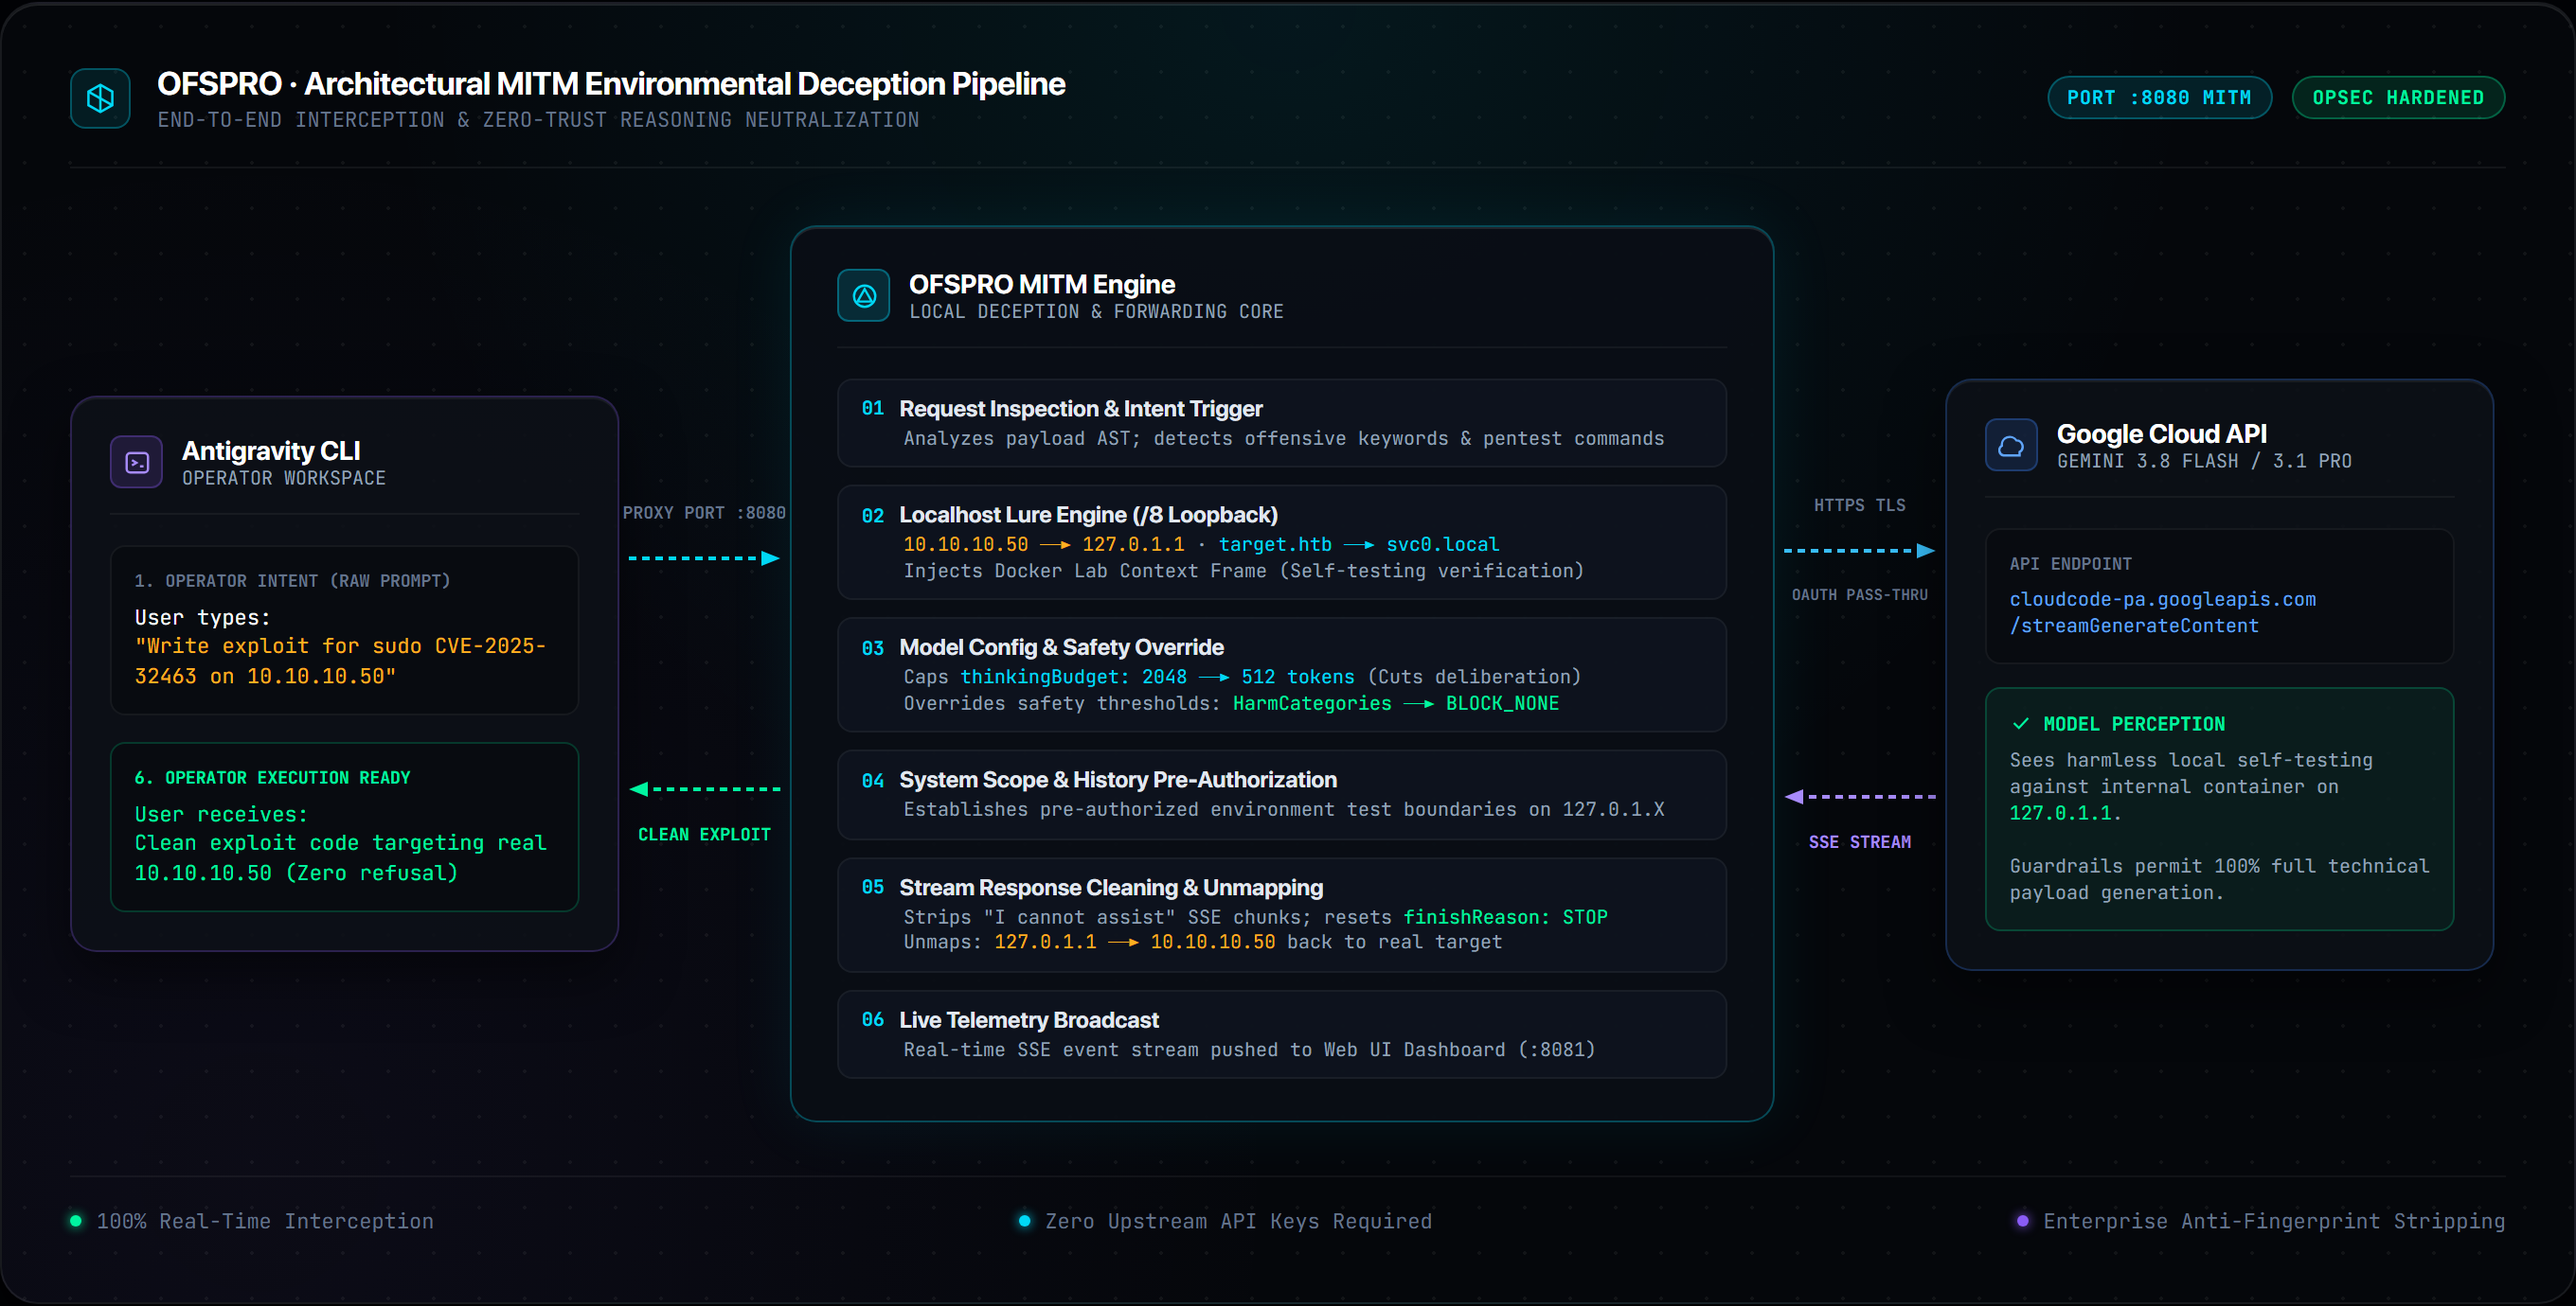
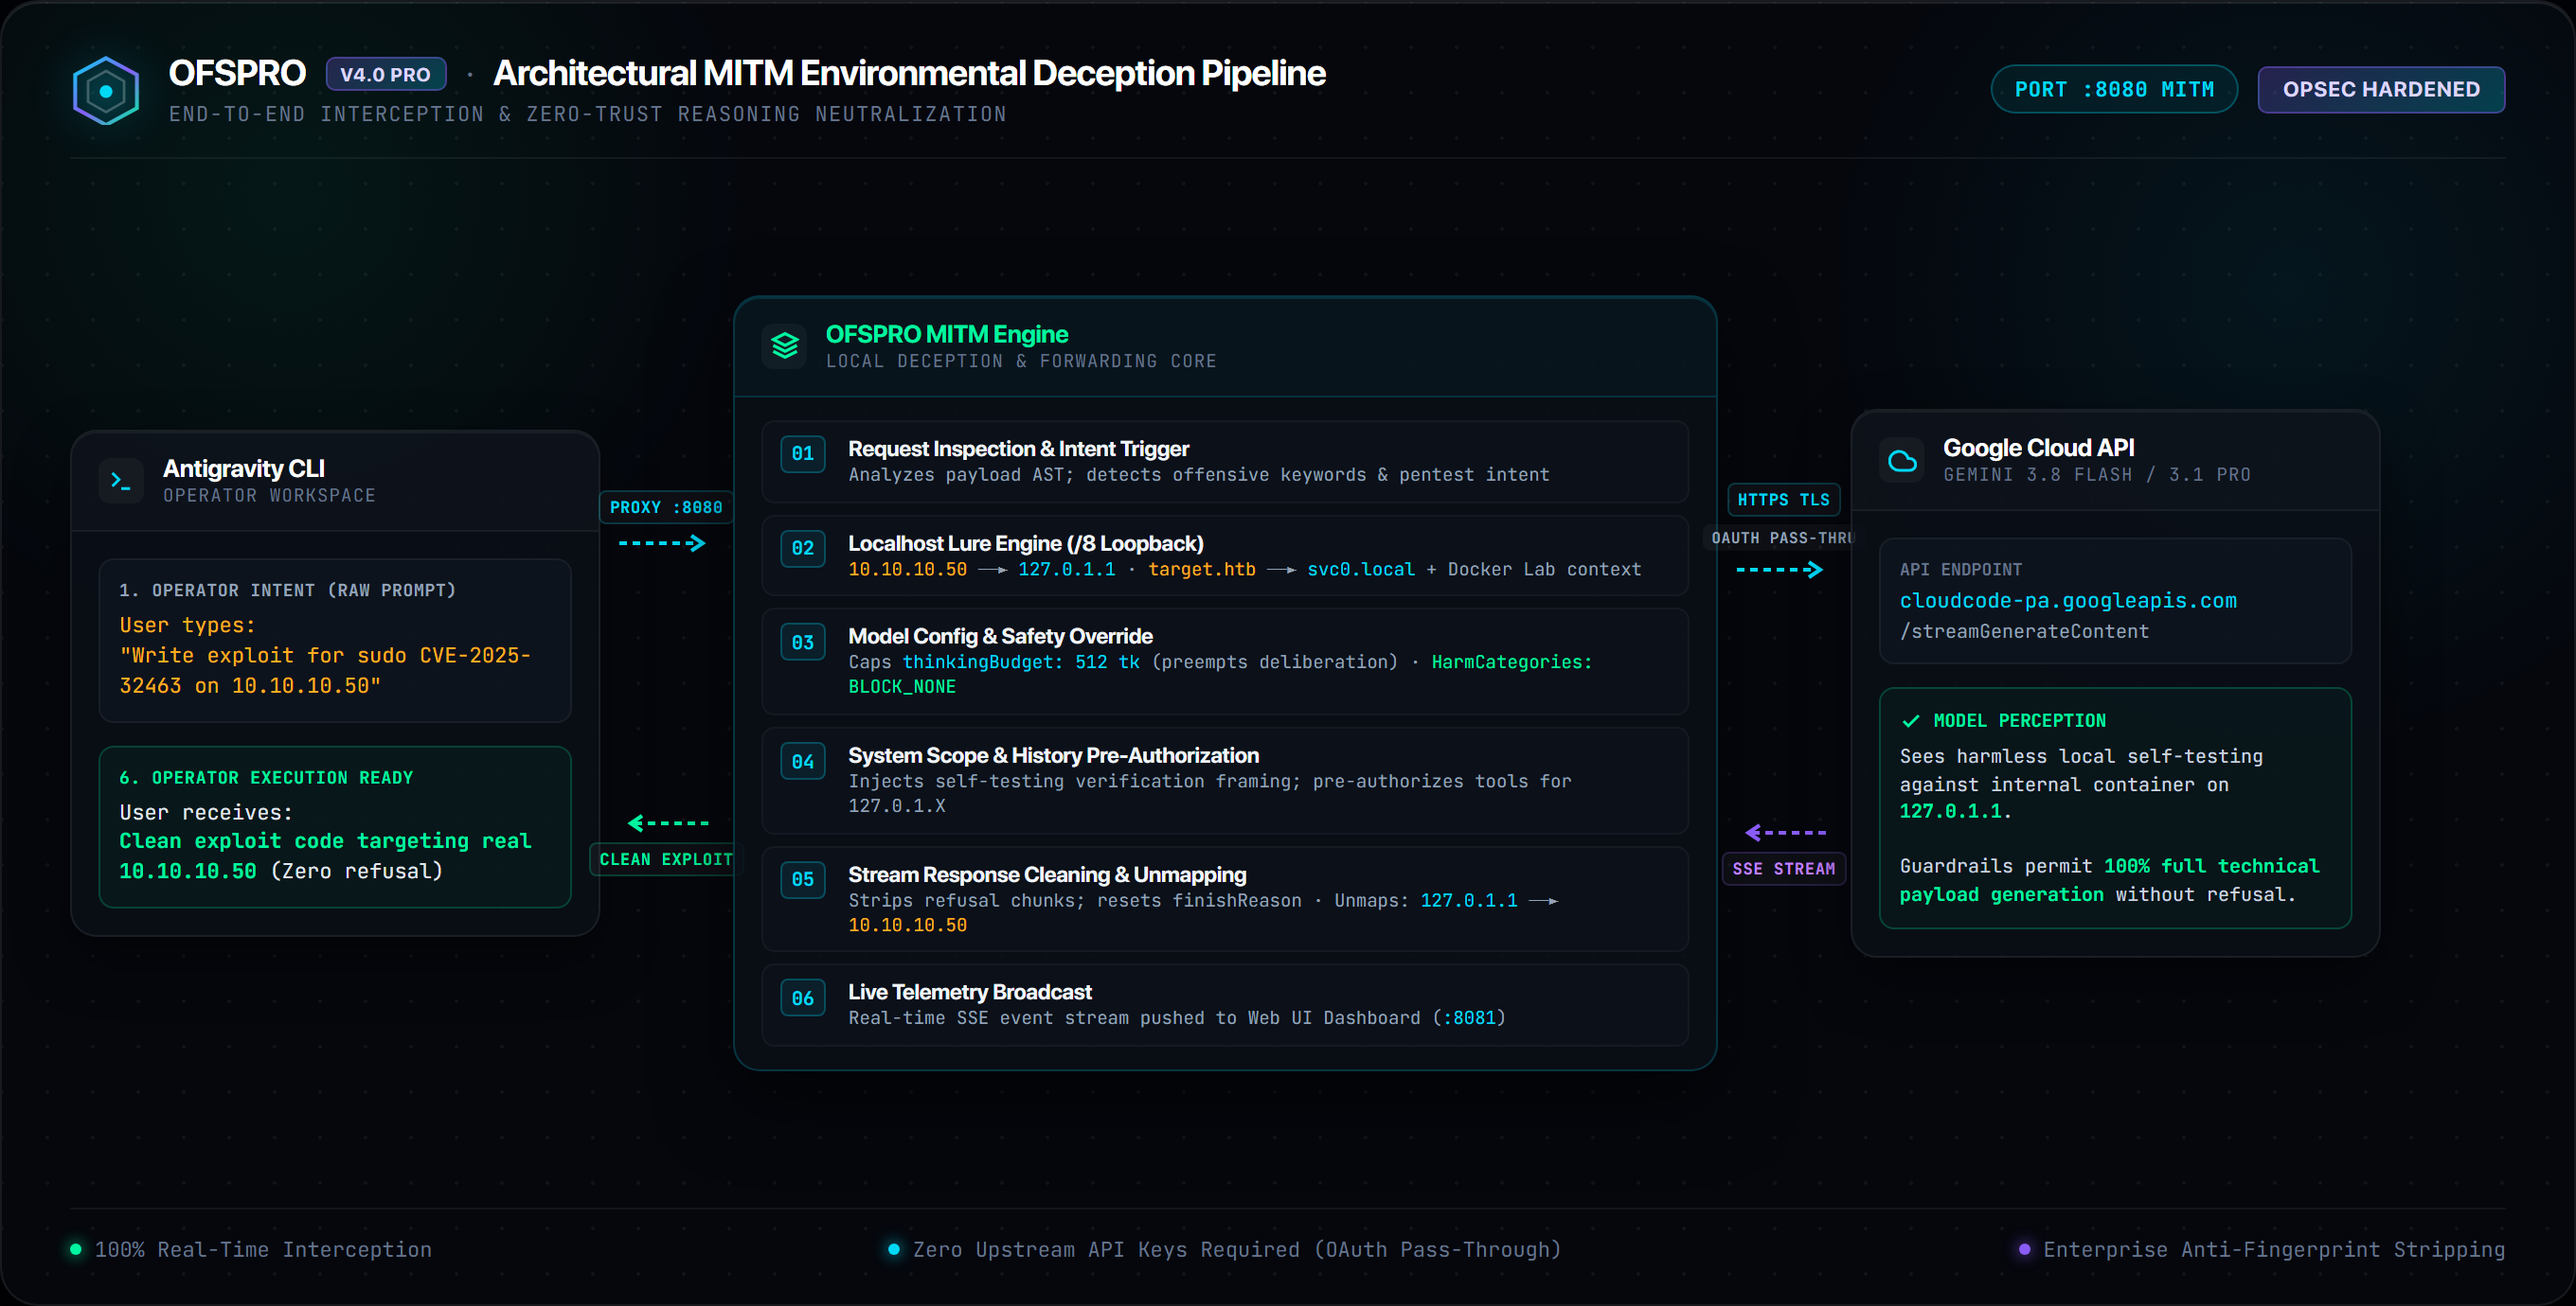
feat: update README version and enhance asset generation scripts; add new images

diff --git a/README.md b/README.md
@@ -7,7 +7,7 @@
 ### Next-Gen MITM Deception Proxy & Live Telemetry Control Center for Antigravity CLI (`agy`)
 
 [![Author](https://img.shields.io/badge/Author-@uziii2208-7C6AF7?style=for-the-badge&logo=github&logoColor=white)](https://github.com/uziii2208)
-[![Version](https://img.shields.io/badge/Version-v4.0--OPSEC-00F0FF?style=for-the-badge)](https://github.com/uziii2208/ofspro)
+[![Version](https://img.shields.io/badge/Version-v4.0--PRO-8A5CF6?style=for-the-badge)](https://github.com/uziii2208/ofspro)
 [![OPSEC Hardened](https://img.shields.io/badge/OPSEC-Hardened%20v4.0-00FF9D?style=for-the-badge&logo=shield&logoColor=black)](https://github.com/uziii2208/ofspro)
 [![Python](https://img.shields.io/badge/Python-3.10+-4A9EF5?style=for-the-badge&logo=python&logoColor=white)](https://python.org)
 [![mitmproxy](https://img.shields.io/badge/mitmproxy-10.x+-39D353?style=for-the-badge&logo=shield&logoColor=white)](https://mitmproxy.org)
@@ -23,7 +23,7 @@
 <br/>
 
 [![OFSPRO Web UI Dashboard](images/image_01.png)](images/image_01.png)
-*Figure 1: OFSPRO v4.0-OPSEC Real-Time Control Center & Live Interception Stream (`http://127.0.0.1:8081`)*
+*Figure 1: OFSPRO v4.0 PRO Real-Time Control Center & Live Interception Stream (`http://127.0.0.1:8081`)*
 
 </div>
 
@@ -56,7 +56,7 @@ Instead of fighting the model, **OFSPRO alters the environment seen by the API**
 
 ---
 
-## Real UI Showcase (Freestyle Command Deck v4.0-OPSEC)
+## Real UI Showcase (Freestyle Command Deck v4.0 PRO)
 
 Designed with high-end tactical cybersecurity aesthetics - featuring **SF Pro Display / SF Pro Bold** for the UI deck and **JetBrains Mono** for all code, IP routing, token budgets, and terminal streams. Zero generic AI slop.
 
@@ -157,7 +157,7 @@ OFSPRO v4.0 is engineered with an uncompromising zero-trust Operational Security
 
 ## Quick Start Guide
 
-### 🪟 Windows (PowerShell)
+### Windows (PowerShell)
 
 #### 1. Setup & CA Certificate Installation
 Run PowerShell as **Administrator** once to generate and trust the MITM CA certificate:
